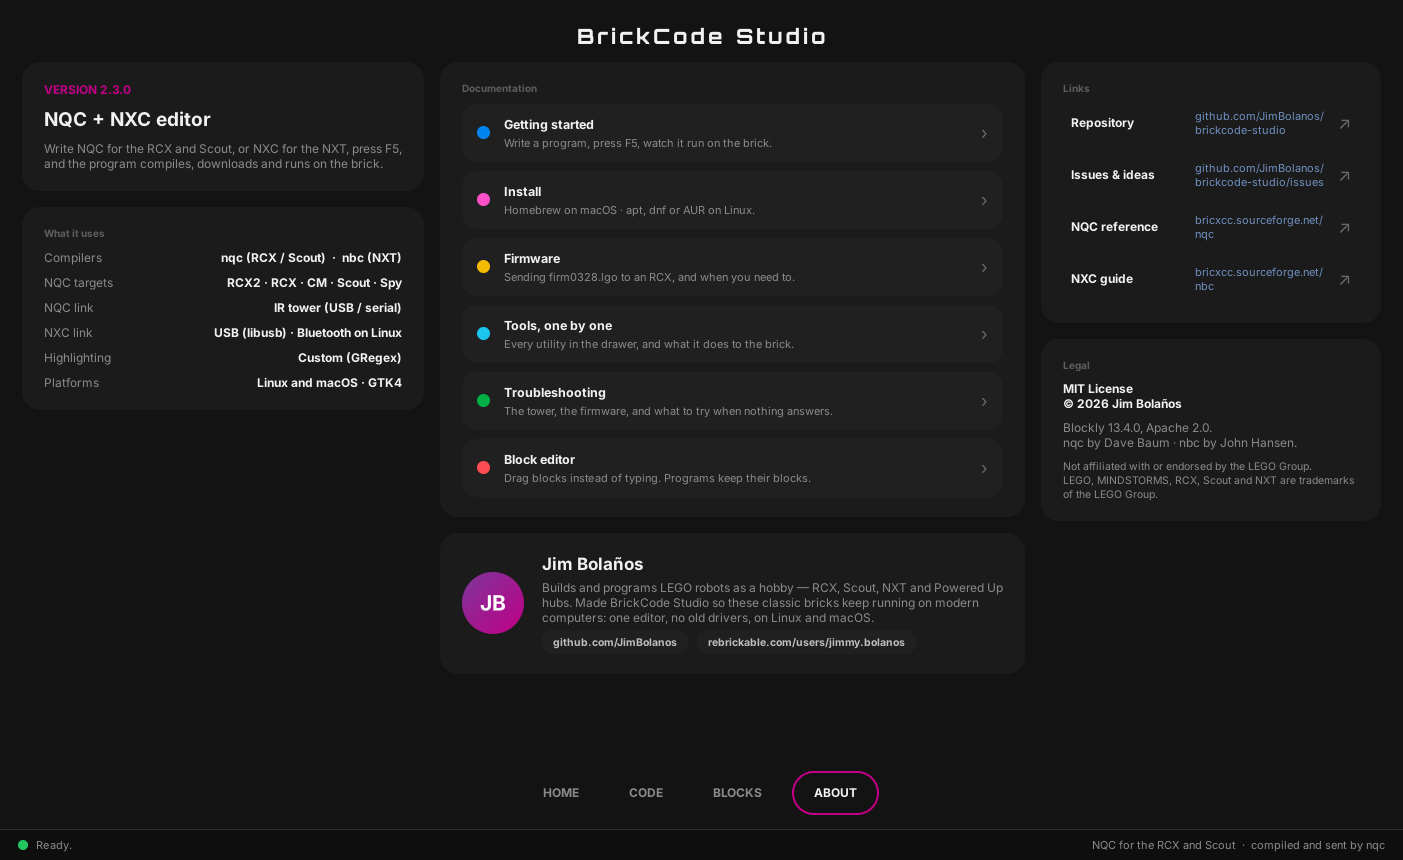
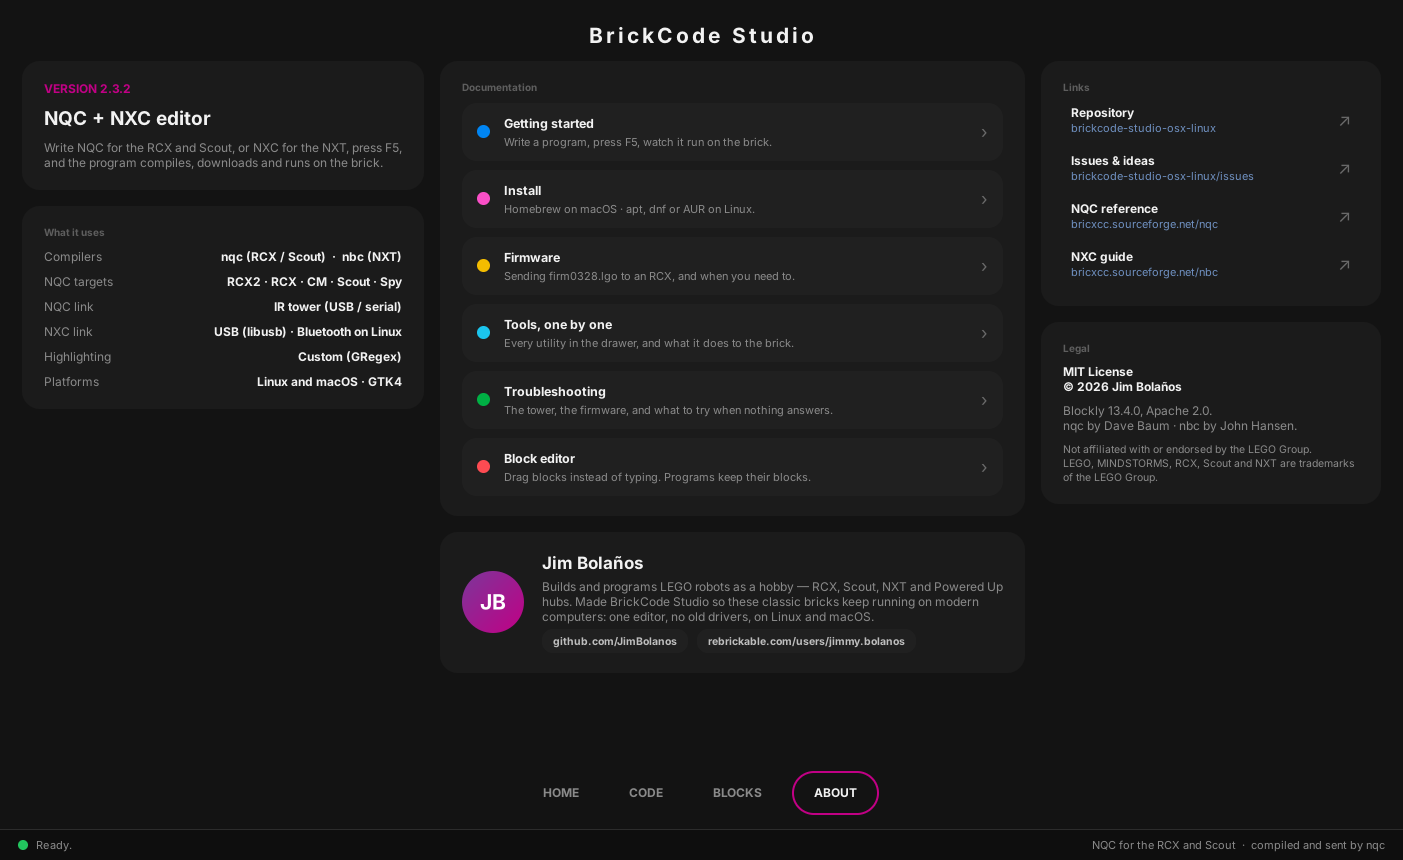
Make the About links readable, and stop the front page going stale
Regenerating the README's About screenshot showed what 2.3.1 actually did
to that column. Stopping the wrap with an ellipsis looked tidy and destroyed
the content: the address gets about 190px beside its label, so all four rows
came out as "github.com/JimBolano…" and "bricxcc.sourceforge.ne…", and
Repository and Issues read the same. Worse than the wrapping it replaced.

The address sits under its own label now, with the full width of the column,
and the two github rows show only the part that distinguishes them. Hovering
still gives the real address, and the row still opens it.

The front page also claimed "What's new in 2.3.0" two releases later. That
heading had to be edited by hand every time to stay true, so it is "What's
new" with a pointer to the changelog. Its About screenshot was from 2.3.0
and showed the repository's old name; it is regenerated from this build.

Seen on screen at the size the README uses, not reasoned about.

Claude-Session: https://claude.ai/code/session_01RGFhntjoSVCNUdNCgVpohL

diff --git a/brickcode-studio/brickcode-studio.c b/brickcode-studio/brickcode-studio.c
@@ -4282,27 +4282,38 @@ static GtkWidget *doc_row(AppState *st, const char *colour, const char *title,
     return b;
 }
 
-static GtkWidget *link_row(AppState *st, const char *name, const char *url) {
+/* shown is what the row displays; NULL shows the address itself. The two
+ * github rows pass a short form, because "github.com/JimBolanos/" eats the
+ * width that tells Repository and Issues apart. */
+static GtkWidget *link_row(AppState *st, const char *name, const char *url,
+                           const char *shown) {
+    /* Name above, address below. Side by side, the address had about 190px
+     * in this 340px column: long ones wrapped into three ragged lines, and
+     * ellipsizing them instead cut every github link down to the same
+     * "github.com/JimBolano..." — tidy, and useless, since Repository and
+     * Issues then read identically. Stacked, the address gets the full
+     * width and the rows stay one height. */
     GtkWidget *r = gtk_box_new(GTK_ORIENTATION_HORIZONTAL, 12);
+    GtkWidget *col = gtk_box_new(GTK_ORIENTATION_VERTICAL, 1);
+    gtk_widget_set_hexpand(col, TRUE);
+
     GtkWidget *n = gtk_label_new(name);
     gtk_widget_add_css_class(n, "ab-v");
     gtk_label_set_xalign(GTK_LABEL(n), 0.0);
-    gtk_widget_set_size_request(n, 112, -1);
-    GtkWidget *u = gtk_label_new(url);
+
+    GtkWidget *u = gtk_label_new(shown ? shown : url);
     gtk_widget_add_css_class(u, "link-url");
     gtk_label_set_xalign(GTK_LABEL(u), 0.0);
-    /* One line, cut with an ellipsis, rather than wrapped. A long address
-     * wrapped into this narrow column breaks into three ragged lines and
-     * pushes every row under it out of line. The whole address is still
-     * there on hover, and the row opens it either way. */
     gtk_label_set_wrap(GTK_LABEL(u), FALSE);
     gtk_label_set_ellipsize(GTK_LABEL(u), PANGO_ELLIPSIZE_END);
-    gtk_widget_set_tooltip_text(u, url);
-    gtk_widget_set_hexpand(u, TRUE);
+    gtk_widget_set_tooltip_text(u, url);   /* hover always shows the real one */
+
+    gtk_box_append(GTK_BOX(col), n);
+    gtk_box_append(GTK_BOX(col), u);
+
     GtkWidget *go = gtk_label_new("↗");
     gtk_widget_add_css_class(go, "doc-go");
-    gtk_box_append(GTK_BOX(r), n);
-    gtk_box_append(GTK_BOX(r), u);
+    gtk_box_append(GTK_BOX(r), col);
     gtk_box_append(GTK_BOX(r), go);
 
     GtkWidget *b = gtk_button_new();
@@ -4458,13 +4469,15 @@ static GtkWidget *about_screen(AppState *st) {
     gtk_widget_add_css_class(links, "ab-card");
     gtk_box_append(GTK_BOX(links), section("Links"));
     gtk_box_append(GTK_BOX(links), link_row(st, "Repository",
-        "github.com/JimBolanos/brickcode-studio-osx-linux"));
+        "github.com/JimBolanos/brickcode-studio-osx-linux",
+        "brickcode-studio-osx-linux"));
     gtk_box_append(GTK_BOX(links), link_row(st, "Issues & ideas",
-        "github.com/JimBolanos/brickcode-studio-osx-linux/issues"));
+        "github.com/JimBolanos/brickcode-studio-osx-linux/issues",
+        "brickcode-studio-osx-linux/issues"));
     gtk_box_append(GTK_BOX(links), link_row(st, "NQC reference",
-        "bricxcc.sourceforge.net/nqc"));
+        "bricxcc.sourceforge.net/nqc", NULL));
     gtk_box_append(GTK_BOX(links), link_row(st, "NXC guide",
-        "bricxcc.sourceforge.net/nbc"));
+        "bricxcc.sourceforge.net/nbc", NULL));
     gtk_box_append(GTK_BOX(right), links);
 
     GtkWidget *legal = gtk_box_new(GTK_ORIENTATION_VERTICAL, 9);

diff --git a/README.md b/README.md
@@ -35,7 +35,10 @@ The block editor, writing NQC for the RCX and NXC for the NXT:
 
 Full guide: [English](docs/USER_GUIDE.en.md) · [Español](docs/USER_GUIDE.es.md)
 
-## What's new in 2.3.0
+## What's new
+
+The headlines of the 2.3 line. Every release, down to the small fixes, is in
+[CHANGELOG.md](CHANGELOG.md).
 
 **A dashboard.** The app opens on the three bricks it can program. Picking one
 sets the language *and* the target together — until now those were two separate
@@ -74,7 +77,7 @@ BrickCode Studio uses the **USB tower**. The older **serial tower** has not been
 - Device chip: shows whether an NXT or an RCX tower is connected
 - RCX tools: tower port detection, firmware sheet with a real progress bar, datalog, IR range, auto-shutoff
 - NXT Explorer: files, battery and firmware over USB
-- Visual block editor (**File → Block editor…**): drag blocks instead of typing, in NQC or NXC. It opens in your browser already set to the language the toolbar is on. Saved programs carry their blocks inside, so you can open them again and keep building — see [`blocks`](blocks).
+- Visual block editor (**BLOCKS** in the bottom bar, the button on the editor screen, or **File → Block editor…**): drag blocks instead of typing, in NQC or NXC. It opens in your browser already set to the language the toolbar is on. Saved programs carry their blocks inside, so you can open them again and keep building — see [`blocks`](blocks).
 - NXT Screen: the NXT display shown live on the computer over USB, drawn as the NXT brick, with clickable buttons (◀ Enter ▶ Exit) and keyboard keys to move through the NXT menus. Tested on macOS (Mac mini M4 with an NXT); still in testing on Linux.
 - Remote (RCX): the buttons of the LEGO IR remote (messages, motors A/B/C, programs P1-P5, stop, sound), sent with `nqc`. The motor buttons run the motor while held, like the real remote. The installers patch nqc at build time so it does not wait for a reply the RCX never sends to remote commands (needed for the motor to keep running). Tested on a Mac mini M4 with an RCX 2.0.
 - VLL (Scout): makes a Scout send VLL codes (motor forward / backward, beeps) to a Micro Scout, through the USB tower. Tested on macOS (Mac mini M4); still in testing on Linux.

diff --git a/CHANGELOG.md b/CHANGELOG.md
@@ -5,6 +5,13 @@ All notable changes to BrickCode Studio. Dates are release dates.
 ## 2.3.2 — 2026-11-02
 
 ### Fixed
+- **The Links in About were unreadable.** 2.3.1 stopped them wrapping into
+  ragged lines by cutting them with an ellipsis instead, but the column only
+  gives an address about 190px beside its label: every github row came out as
+  the same `github.com/JimBolano…`, so Repository and Issues read identically.
+  The address now sits under its own label, with the full width, and the two
+  github rows drop the `github.com/JimBolanos/` that was eating it. Hovering
+  still shows the real address.
 - **`linux/install-debian.sh` failed at the first step on Debian, Ubuntu and
   Mint.** It asked apt for `libfontconfig-1-dev`, which is not a package —
   the name is `libfontconfig-dev` — so `apt` stopped with "Unable to locate
@@ -28,6 +35,10 @@ All notable changes to BrickCode Studio. Dates are release dates.
 - `install-debian.sh` was marked "not tested yet". It has now been run end to
   end on Ubuntu 24.04: nqc 3.2 and nbc 1.2.1 both build, and both produce
   working output. No brick was attached, so the tower is still untested there.
+- The README's "What's new in 2.3.0" heading needed editing every release to
+  stay true, and had already stopped being true. It is "What's new" now, with
+  a pointer to this file for the full history. The About screenshot beside it
+  still showed 2.3.0 and the repository's old name.
 
 ## 2.3.1 — 2026-11-02
 
